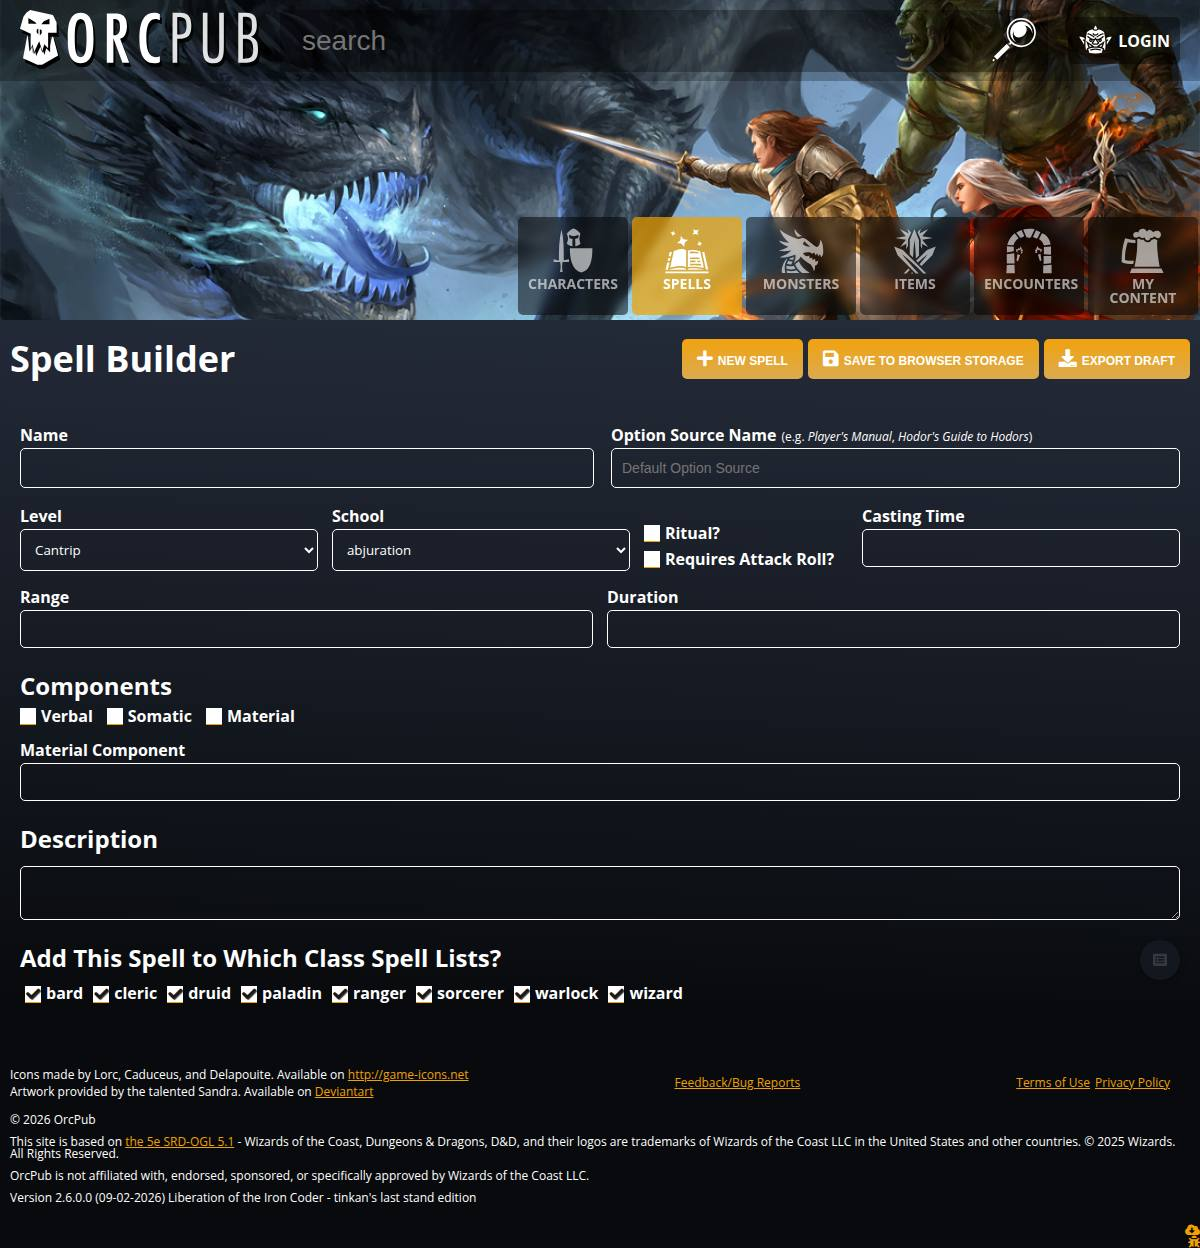
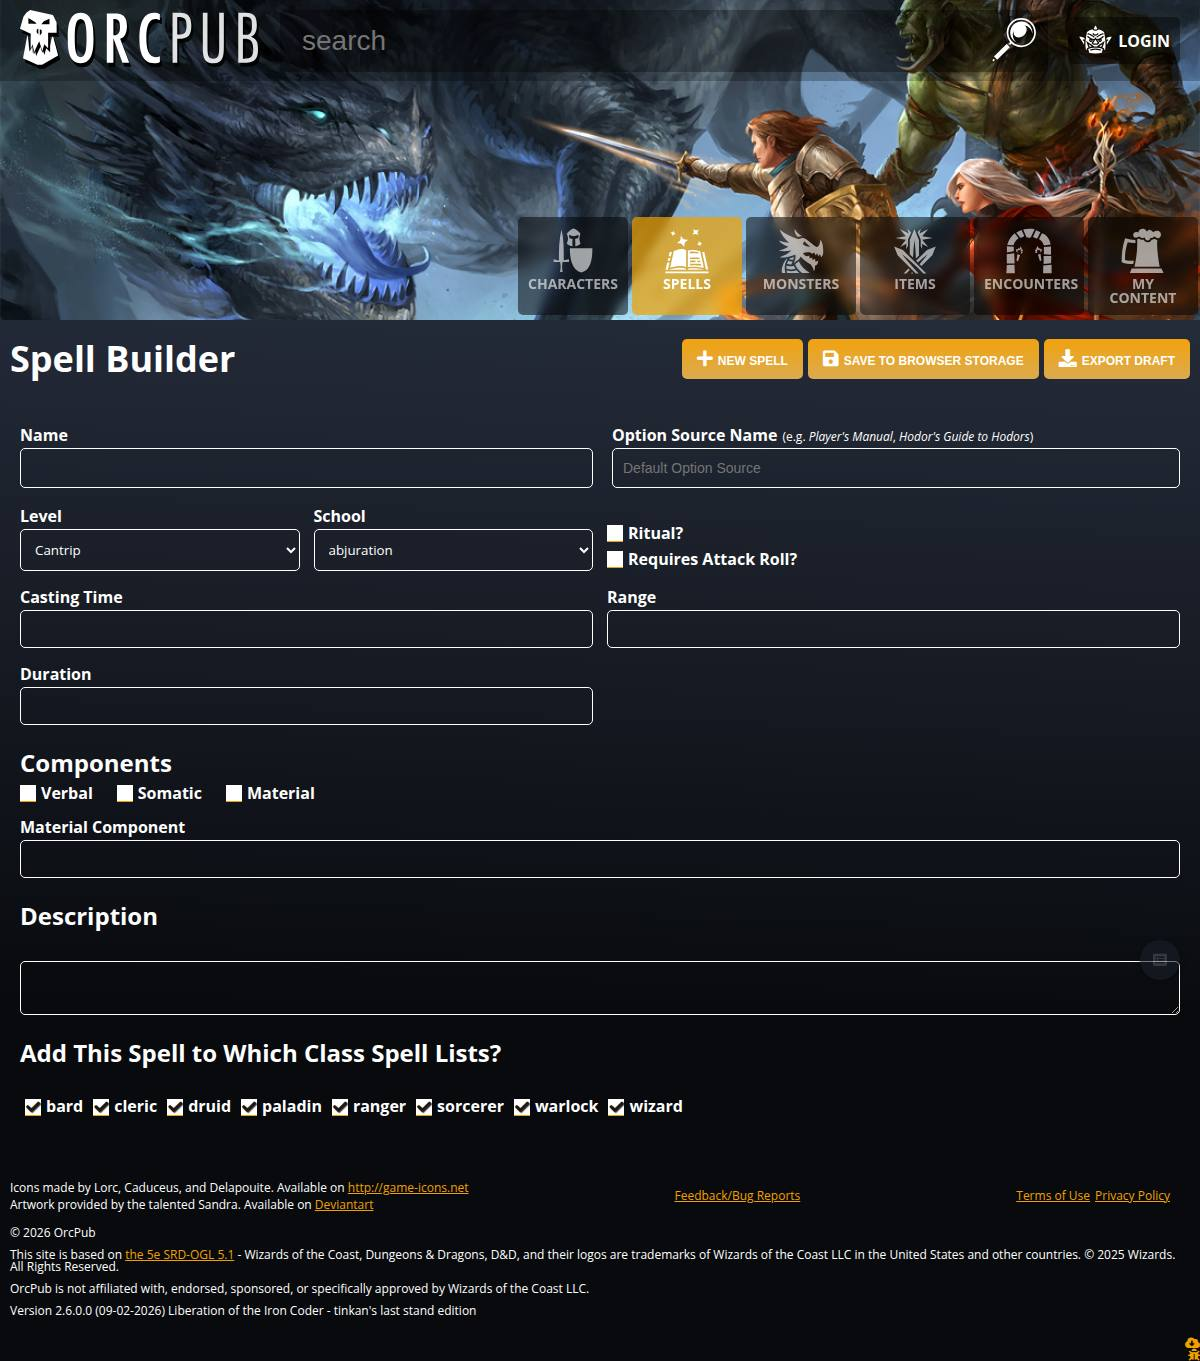
Grid layout for builder fields; fix vanished toggles and a blind metric
The horizontal layout was genuinely uneven, not an illusion. Measured on the
spell form under the flex flow: second-column left edges at x=611, 332 and 607
on three consecutive rows, and Casting Time 318px wide against Duration 573px —
the same kind of field at different widths, because flexbox distributes
leftover space PER ROW and every row lays itself out independently.

.bf-flow is a four-track grid now. A field's width comes from the field rather
than from how many neighbours landed beside it: :text spans two tracks,
:enum/:number/a toggle column span one, :multi-enum/:rows/:span :full span all
four. Two tracks under 900px, one under 600px. The head row shares the tracks,
so Name lines up with Casting Time below it.

It also restored the pairing this doc had listed as OPEN: with :text spanning
two tracks, Casting Time and Range fall onto one row and Duration onto the
next, which is what the hand-written form did. Not designed for — it fell out
of using the right primitive.

A run of toggles that IS the row gets its own full-width flex line so the boxes
stay adjacent; on a four-track grid they would sit ~280px apart, one per track.

Two bugs, and one was in the measurement:

- The three component checkboxes silently DISAPPEARED. The cond clause for a
  heading-only marker (a map with no :type) also matched the synthetic
  {:bools-inline [...]} node and rendered nil. Synthetic node kinds have to be
  excluded from that guard explicitly.
[…]

diff --git a/test/e2e/builder-gallery.js b/test/e2e/builder-gallery.js
@@ -49,9 +49,15 @@ const ONLY = (process.env.ONLY || '').split(',').filter(Boolean);
     await dismissCookieBar(page);
     // How many controls the form puts in front of an author, which is the number the comparison
     // is actually about.
-    const controls = await page.evaluate(() =>
-      [...document.querySelectorAll('#app input, #app select, #app textarea')]
-        .filter(e => { const r = e.getBoundingClientRect(); return r.width > 0 && r.height > 0; }).length);
+    // input/select/textarea AND the glyph checkboxes. The app draws a toggle as an <i> with colour
+    // classes, not an <input>, so a count of form elements missed every checkbox — the three spell
+    // components vanished from the page and the count still read 10.
+    const controls = await page.evaluate(() => {
+      const vis = e => { const r = e.getBoundingClientRect(); return r.width > 0 && r.height > 0; };
+      const fields = [...document.querySelectorAll('#app input, #app select, #app textarea')].filter(vis);
+      const toggles = [...document.querySelectorAll('#app i.fa-check')].filter(vis);
+      return fields.length + toggles.length;
+    });
     // HEIGHT, not just control count. A conversion that stacks every field into one page-wide
     // column shows the same controls and reads far worse — the generated spell form ran 100px
     // TALLER than the hand-written one while showing one control FEWER, and a count-only gallery

diff --git a/docs/kb/builder-conversion-gallery.md b/docs/kb/builder-conversion-gallery.md
@@ -391,6 +391,48 @@ carrying its own margin:
 | page height | 1289px | **1248px** |
 | visible controls | 10 | 10 |
 
+### The layout is a GRID, because flexbox cannot align columns
+
+Asked whether the horizontal layout was uneven or an optical illusion, the measurement says
+**uneven**. On the spell form, with a flex flow:
+
+| row | first control | second control |
+|---|---|---|
+| Name / Option Source | L=20 **w=574** | L=611 w=569 |
+| Level / School / … / Casting Time | L=20 **w=298** | L=332 w=298 … Casting Time L=862 **w=318** |
+| Range / Duration | L=20 **w=573** | L=607 w=573 |
+
+Second-column left edges of 611, 332 and 607, and *Casting Time* 318px wide against *Duration* 573px
+— the same kind of field at different widths. Flexbox distributes leftover space **per row**, so
+every row lays itself out independently and nothing lines up down the page.
+
+`.bf-flow` is a **four-track grid** now. A field's width comes from the field, not from how many
+neighbours happened to land beside it: `:text` spans two tracks, `:enum` / `:number` / a toggle
+column span one, `:multi-enum` / `:rows` / `:span :full` span all four; 2 tracks under 900px, 1
+under 600px. The head row shares the same tracks, so Name lines up with Casting Time below it.
+
+**It also restored the pairing that was listed as open here:** with `:text` spanning two tracks,
+Casting Time and Range fall onto one row and Duration onto the next — exactly what the hand-written
+form did. That was not designed for; it fell out of using the right primitive.
+
+A run of toggles that **is** the row (the components) gets its own full-width flex line so the boxes
+stay adjacent — on a four-track grid they would otherwise sit ~280px apart, one per track.
+
+### Two bugs this round, and one was in the measurement
+
+**The three component checkboxes silently disappeared.** The `cond` clause for a heading-only marker
+(`a map with no :type`) also matched the synthetic `{:bools-inline […]}` node and rendered it as
+`nil`. A synthetic node kind has to be excluded from that guard explicitly.
+
+**And the gallery did not notice**, because its control count queried `input, select, textarea` —
+the app draws a toggle as an `<i>` with colour classes, so **no checkbox had ever been counted**.
+The count read 10 both before and after three controls vanished. It counts glyph toggles now, which
+also corrects the census below: the bespoke builders are far denser than the old number suggested
+(race 22 → **244**, subrace 18 → **199**, background 5 → **184**).
+
+The lesson is the same one this page keeps recording: a metric that cannot see the thing it is
+supposed to guard will report its absence as a pass.
+
 ### Still open on this pair
 
 Not claiming it is finished:
@@ -432,6 +474,9 @@ settles it.
 Five of fifteen are generated. The nine still bespoke are **not blocked on effort**; each is blocked
 on a specific missing primitive, and they cluster hard. Measured by reading each builder's widgets,
 not guessed:
+
+*Control counts below predate the glyph-toggle fix and understate the checkbox-heavy builders; the
+current numbers are in `target/e2e-shots/gallery-*/index.json`.*
 
 | builder | lines | blocked on |
 |---|---:|---|
